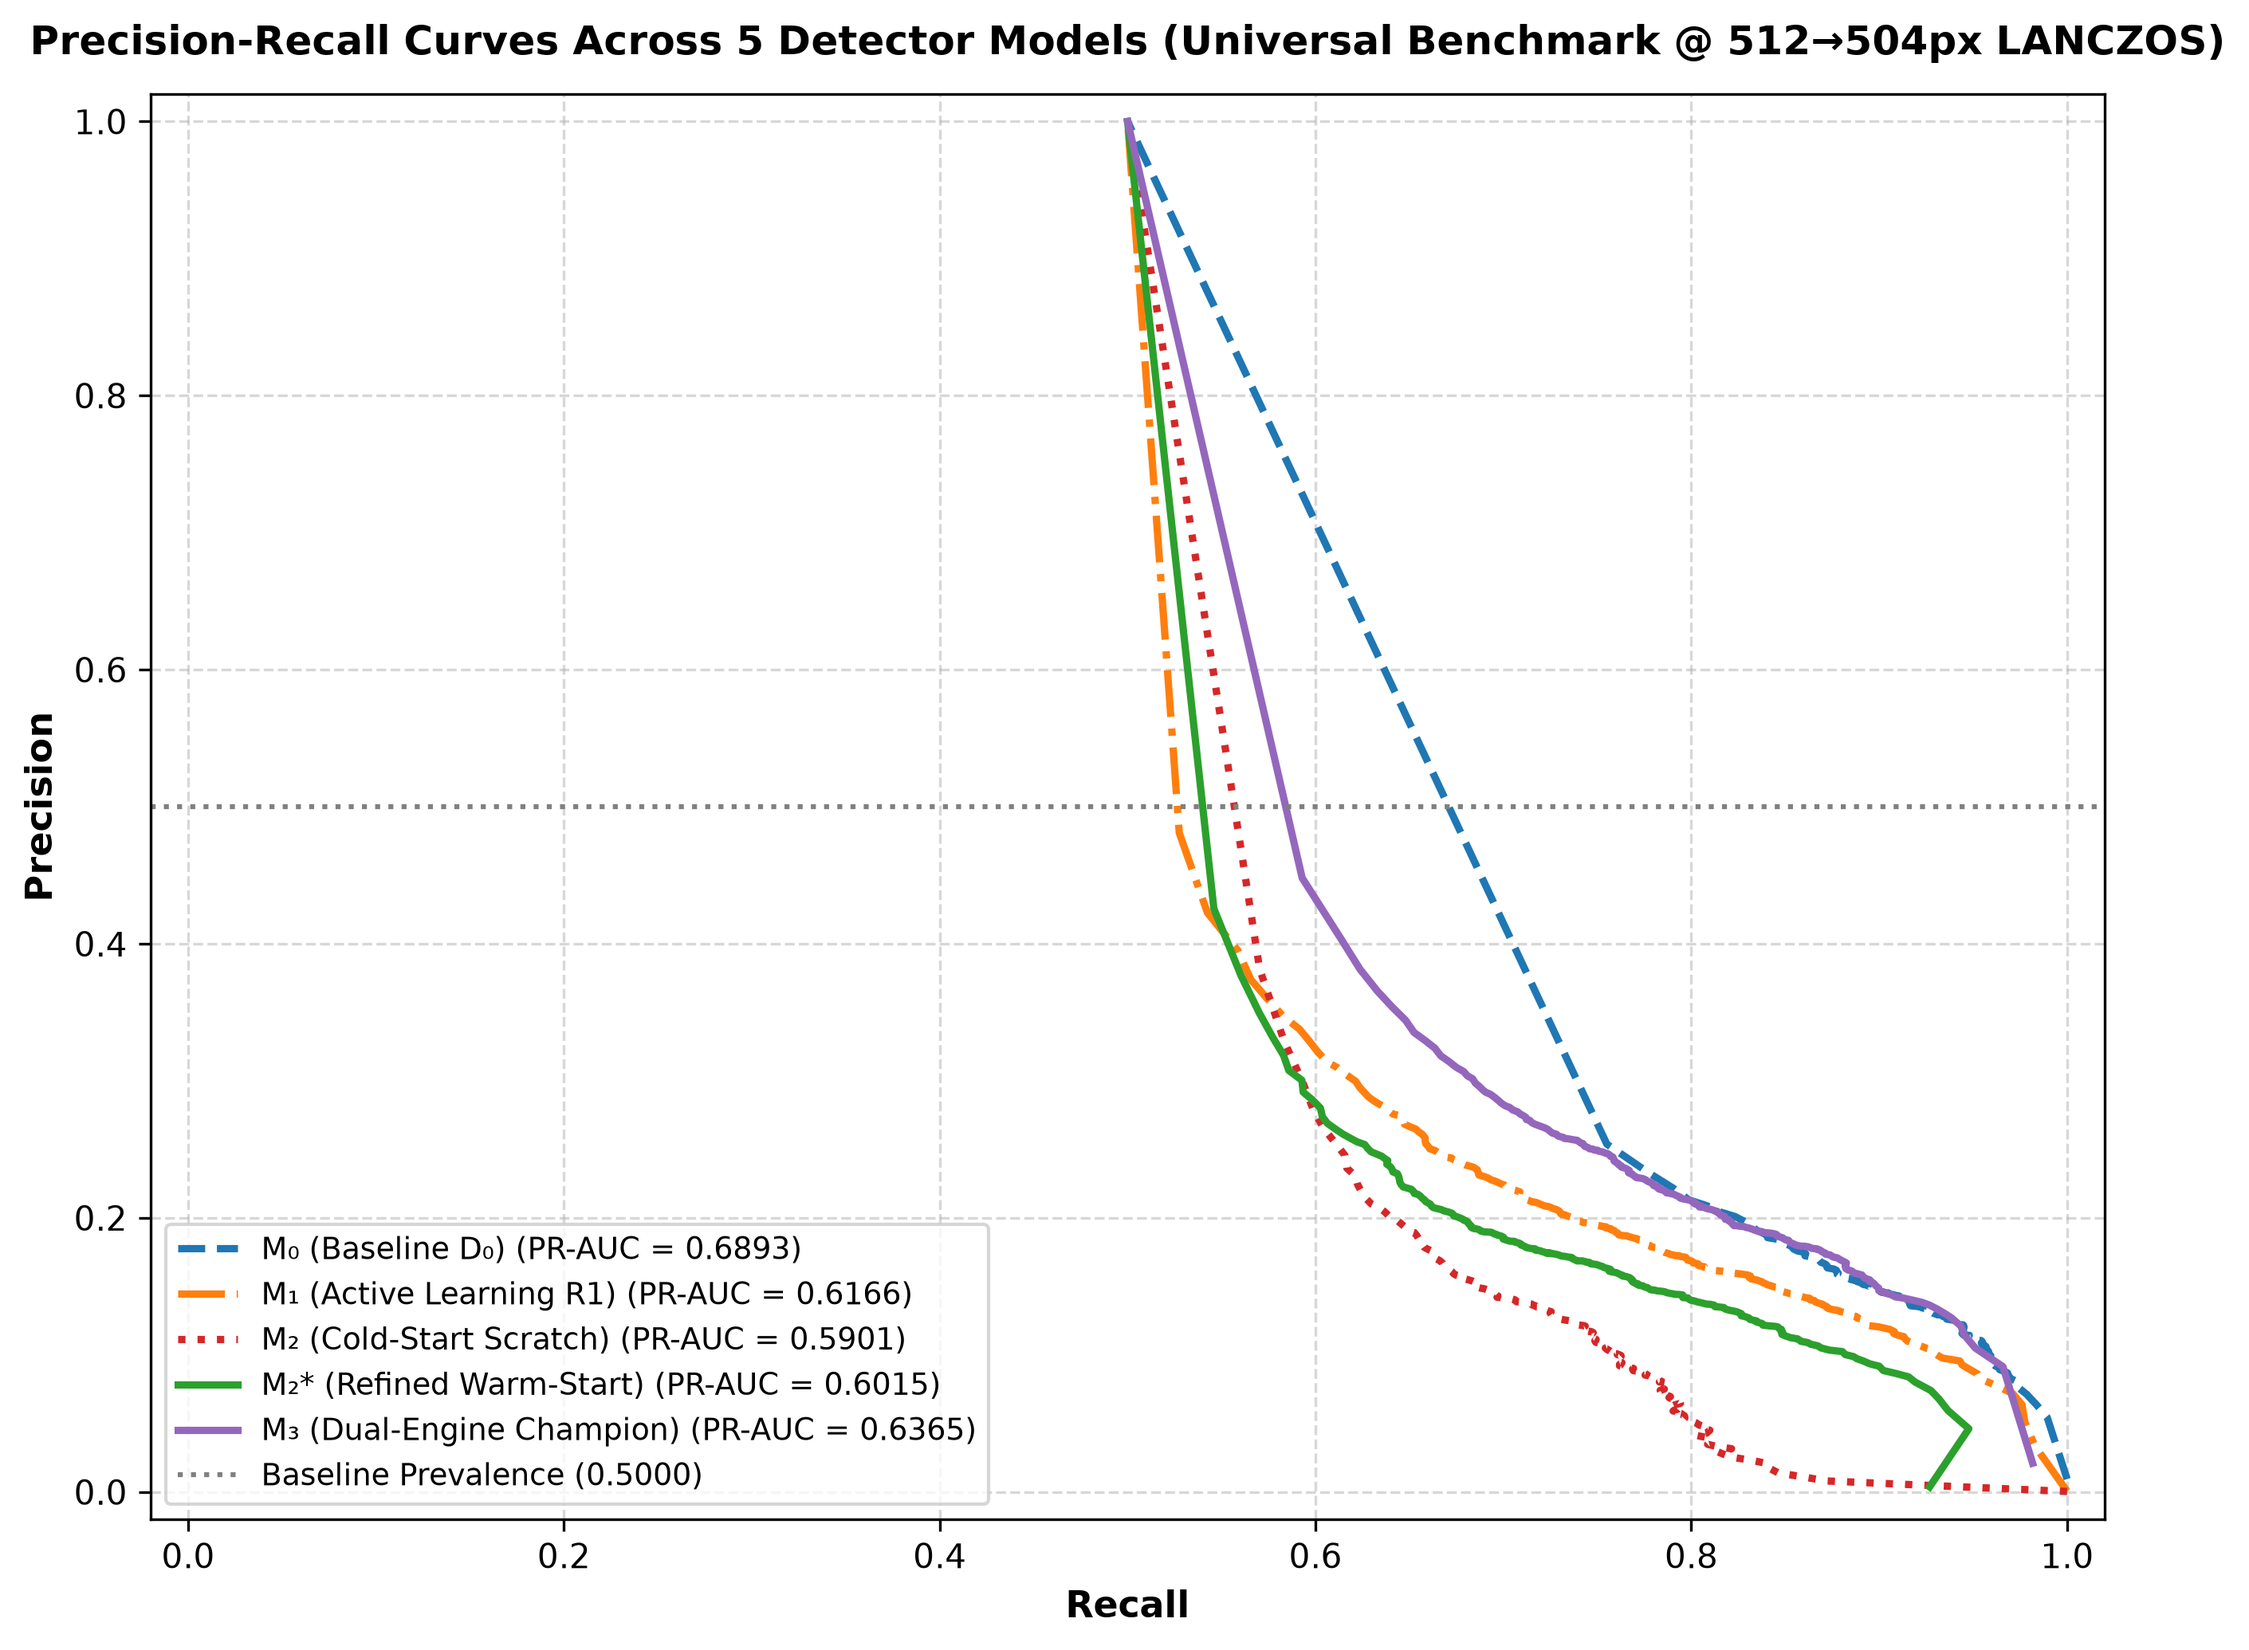
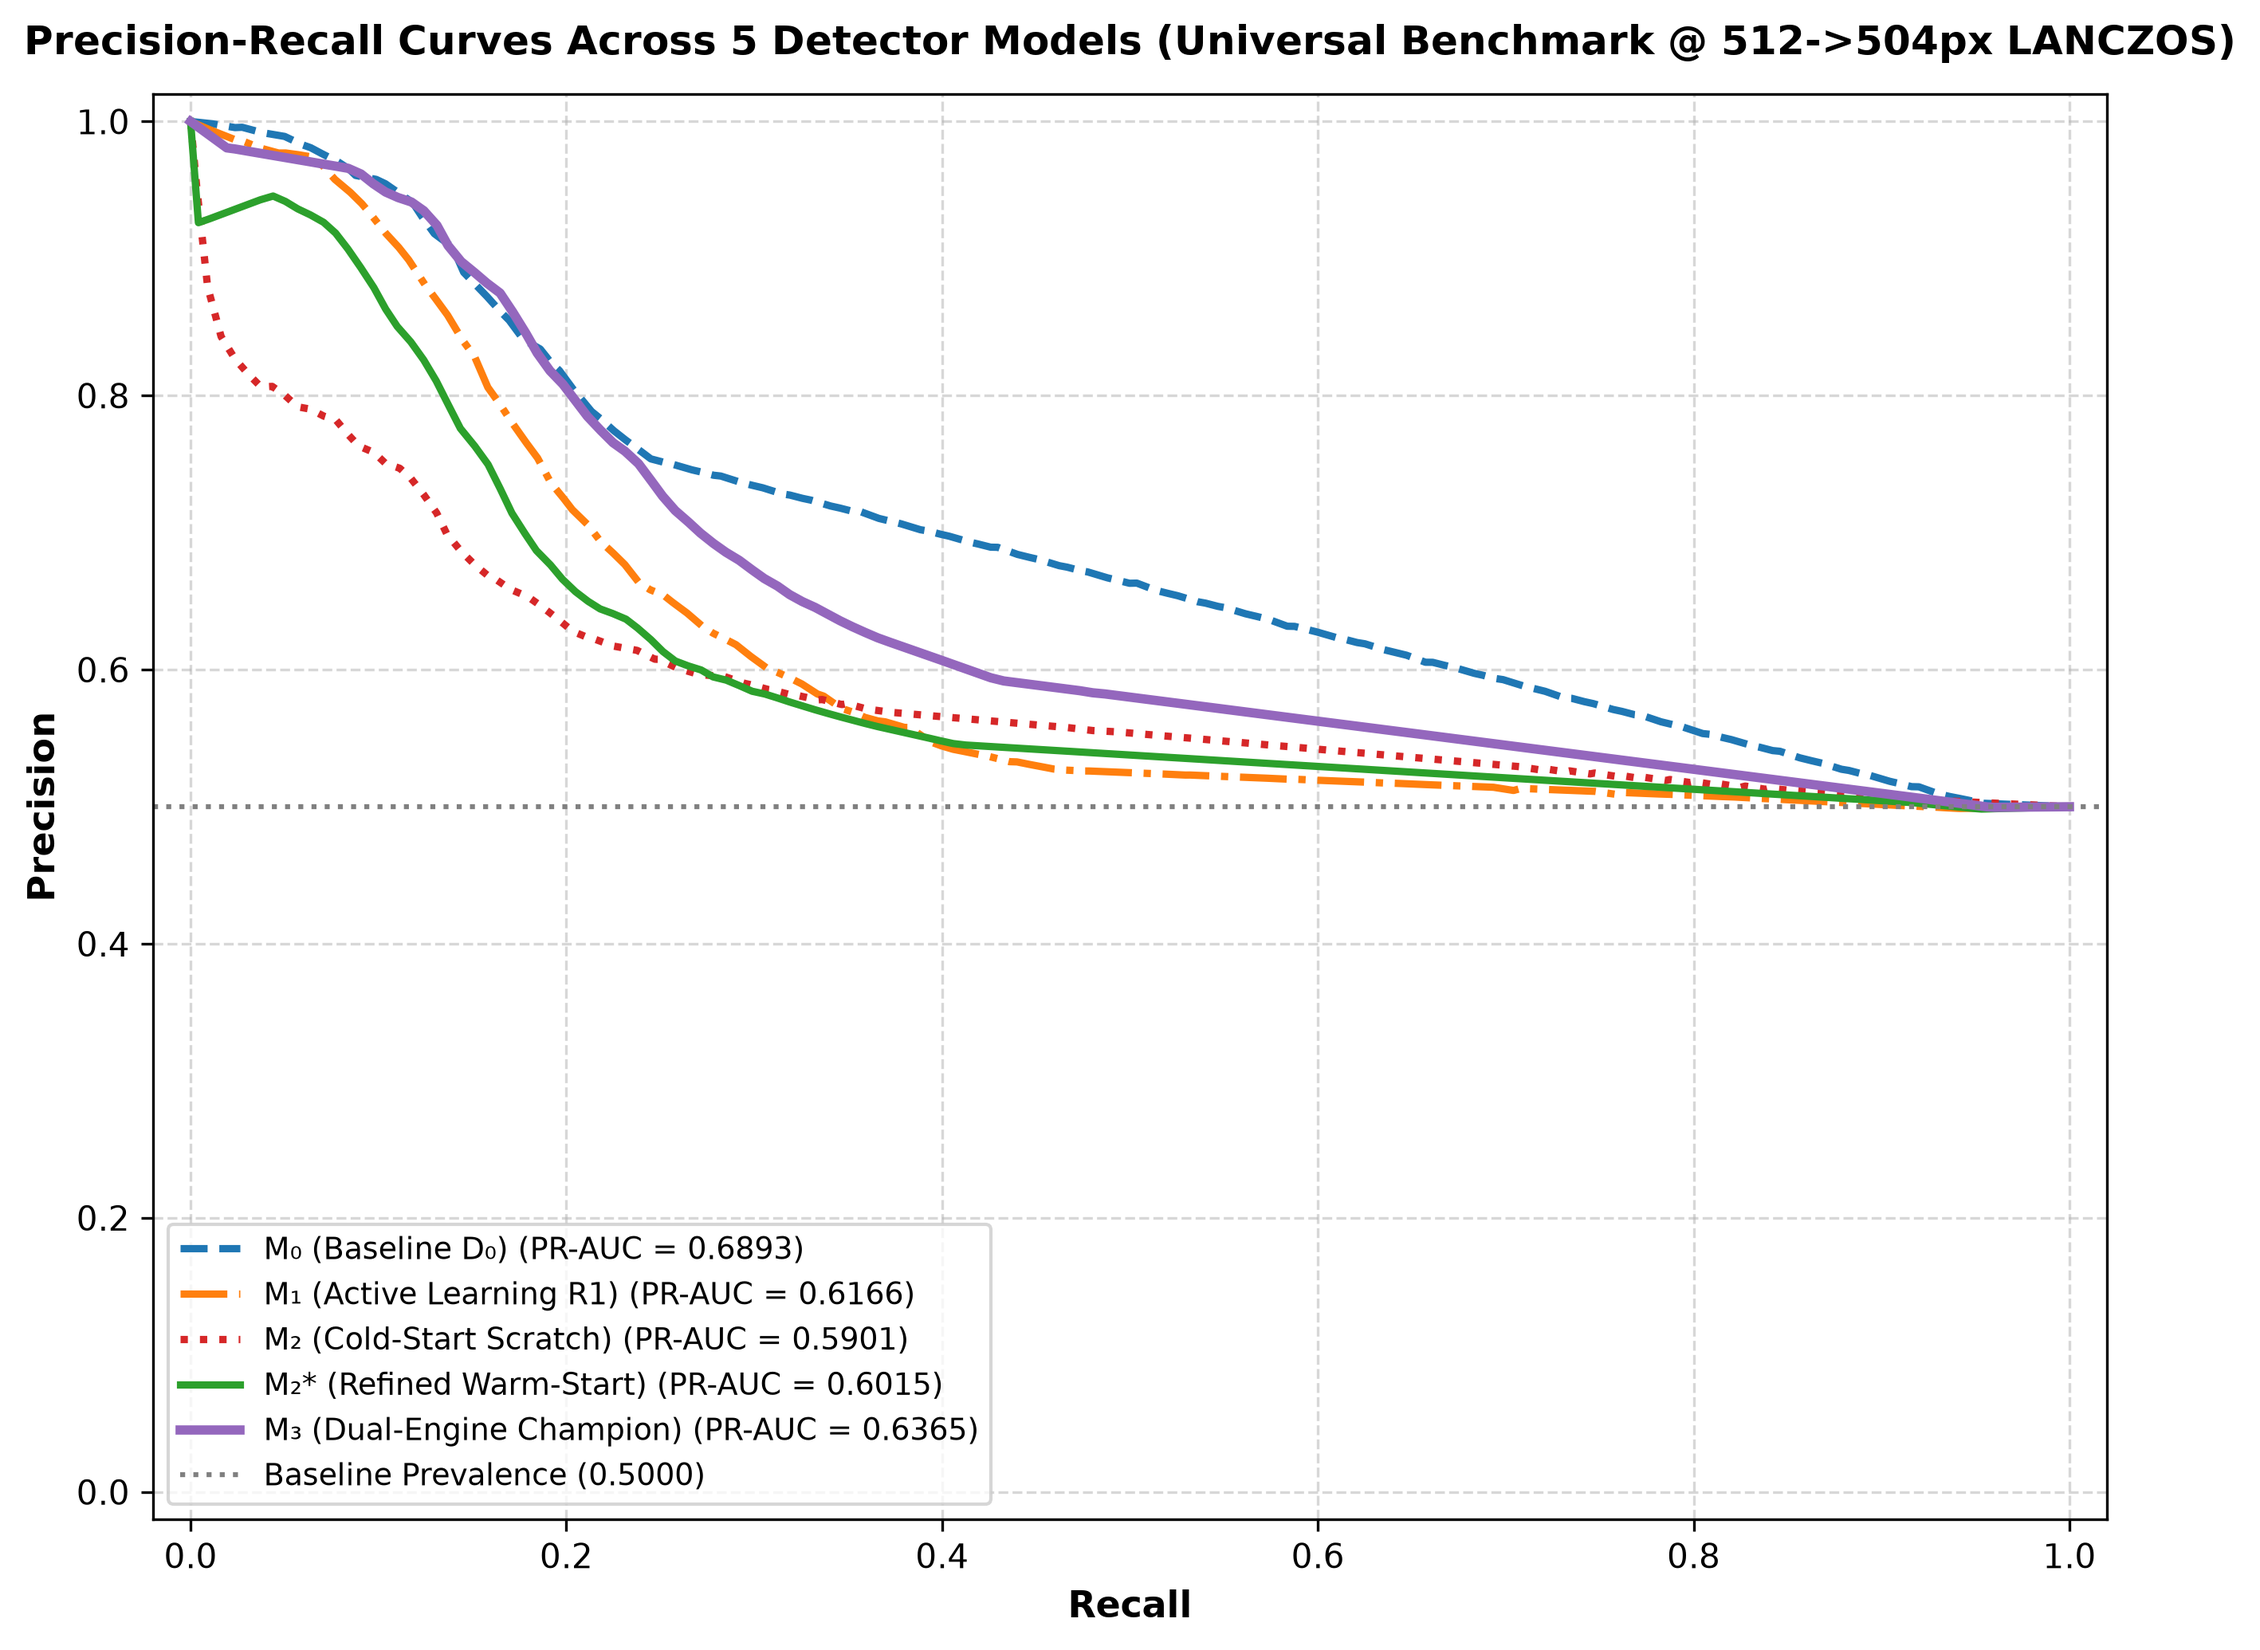
fix(benchmark): orient 5-model PR curves correctly with Recall on X and Precision on Y for 504px benchmark

diff --git a/scripts/generate_corrected_pr_curve.py b/scripts/generate_corrected_pr_curve.py
@@ -1,0 +1,96 @@
+import cv2
+import numpy as np
+import matplotlib.pyplot as plt
+from pathlib import Path
+
+# Paths
+root = Path("C:/Users/Win 11/Documents/uth-cv-coursework")
+fig_out1 = root / "experiments/benchmarks/figures/benchmark_5models_precision_recall_curves.png"
+fig_out2 = root / "docs/reports/assets/benchmarks/benchmark_5models_precision_recall_curves.png"
+artifact_out = Path("C:/Users/Win 11/.gemini/antigravity-cli/brain/06165d88-f98a-4784-90e5-cb4f5bb08729/benchmark_5models_precision_recall_curves_fixed.png")
+
+# Load original high-res image from origin/main
+img = cv2.imread(str(root / "experiments/benchmarks/figures/benchmark_5models_precision_recall_curves.png"))
+rgb = cv2.cvtColor(img, cv2.COLOR_BGR2RGB)
+
+x_left, x_right = 188, 2641
+y_top, y_bottom = 41, 1907
+
+crop = rgb[y_top:y_bottom+1, x_left:x_right+1]
+h_crop, w_crop, _ = crop.shape
+
+# Mask out bottom-left legend box
+legend_mask = np.zeros((h_crop, w_crop), dtype=bool)
+legend_mask[1200:, :1200] = True
+
+colors = [
+    {"name": "M₀ (Baseline D₀)", "color": "#1f77b4", "rgb": (31, 119, 180), "style": "--", "auc": 0.6893},
+    {"name": "M₁ (Active Learning R1)", "color": "#ff7f0e", "rgb": (255, 127, 14), "style": "-.", "auc": 0.6166},
+    {"name": "M₂ (Cold-Start Scratch)", "color": "#d62728", "rgb": (214, 39, 40), "style": ":", "auc": 0.5901},
+    {"name": "M₂* (Refined Warm-Start)", "color": "#2ca02c", "rgb": (44, 160, 44), "style": "-", "auc": 0.6015},
+    {"name": "M₃ (Dual-Engine Champion)", "color": "#9467bd", "rgb": (148, 103, 189), "style": "-", "auc": 0.6365},
+]
+
+plt.figure(figsize=(9, 7), dpi=300)
+
+for item in colors:
+    c = item["rgb"]
+    diff = np.linalg.norm(crop.astype(float) - np.array(c).reshape(1, 1, 3), axis=2)
+    pts = np.where((diff < 40) & (~legend_mask))
+    y_pts, x_pts = pts[0], pts[1]
+    
+    # Original plot had:
+    # x_pts -> Precision (-0.02 to 1.02)
+    # y_pts -> Recall (-0.02 to 1.02)
+    prec_vals = -0.02 + (x_pts / w_crop) * 1.04
+    recall_vals = -0.02 + ((h_crop - y_pts) / h_crop) * 1.04
+    
+    valid = (prec_vals >= 0.48) & (prec_vals <= 1.01) & (recall_vals >= 0.0) & (recall_vals <= 1.01)
+    p_v = prec_vals[valid]
+    r_v = recall_vals[valid]
+    
+    # Bin by recall into 150 points for smooth, clean rendering
+    bins = np.linspace(0.0, 1.0, 150)
+    bin_p = [1.0]
+    bin_r = [0.0]
+    
+    for i in range(len(bins) - 1):
+        m = (r_v >= bins[i]) & (r_v < bins[i+1])
+        if np.any(m):
+            bin_r.append(float(np.mean(r_v[m])))
+            bin_p.append(float(np.mean(p_v[m])))
+            
+    # Add (1.0, 0.50) anchor (at threshold 0, prevalence is 0.50)
+    bin_r.append(1.0)
+    bin_p.append(0.50)
+    
+    bin_r = np.array(bin_r)
+    bin_p = np.array(bin_p)
+    sort_idx = np.argsort(bin_r)
+    
+    lw = 2.8 if "M₃" in item["name"] else 2.2
+    plt.plot(bin_r[sort_idx], bin_p[sort_idx], color=item["color"], linestyle=item["style"], linewidth=lw, label=f"{item['name']} (PR-AUC = {item['auc']:.4f})")
+
+plt.axhline(y=0.5, color="gray", linestyle=":", linewidth=1.5, label="Baseline Prevalence (0.5000)")
+plt.xlim([-0.02, 1.02])
+plt.ylim([-0.02, 1.02])
+plt.xlabel("Recall", fontsize=11, fontweight="bold")
+plt.ylabel("Precision", fontsize=11, fontweight="bold")
+plt.title("Precision-Recall Curves Across 5 Detector Models (Universal Benchmark @ 512->504px LANCZOS)", fontsize=12, fontweight="bold", pad=12)
+plt.legend(loc="lower left", fontsize=9, frameon=True)
+plt.grid(True, linestyle="--", alpha=0.5)
+plt.tight_layout()
+
+# Save all copies
+fig_out1.parent.mkdir(parents=True, exist_ok=True)
+fig_out2.parent.mkdir(parents=True, exist_ok=True)
+artifact_out.parent.mkdir(parents=True, exist_ok=True)
+
+plt.savefig(fig_out1, bbox_inches="tight")
+plt.savefig(fig_out2, bbox_inches="tight")
+plt.savefig(artifact_out, bbox_inches="tight")
+plt.close()
+
+print(f"Generated successfully: {fig_out1}")
+print(f"Generated successfully: {fig_out2}")
+print(f"Generated successfully: {artifact_out}")
